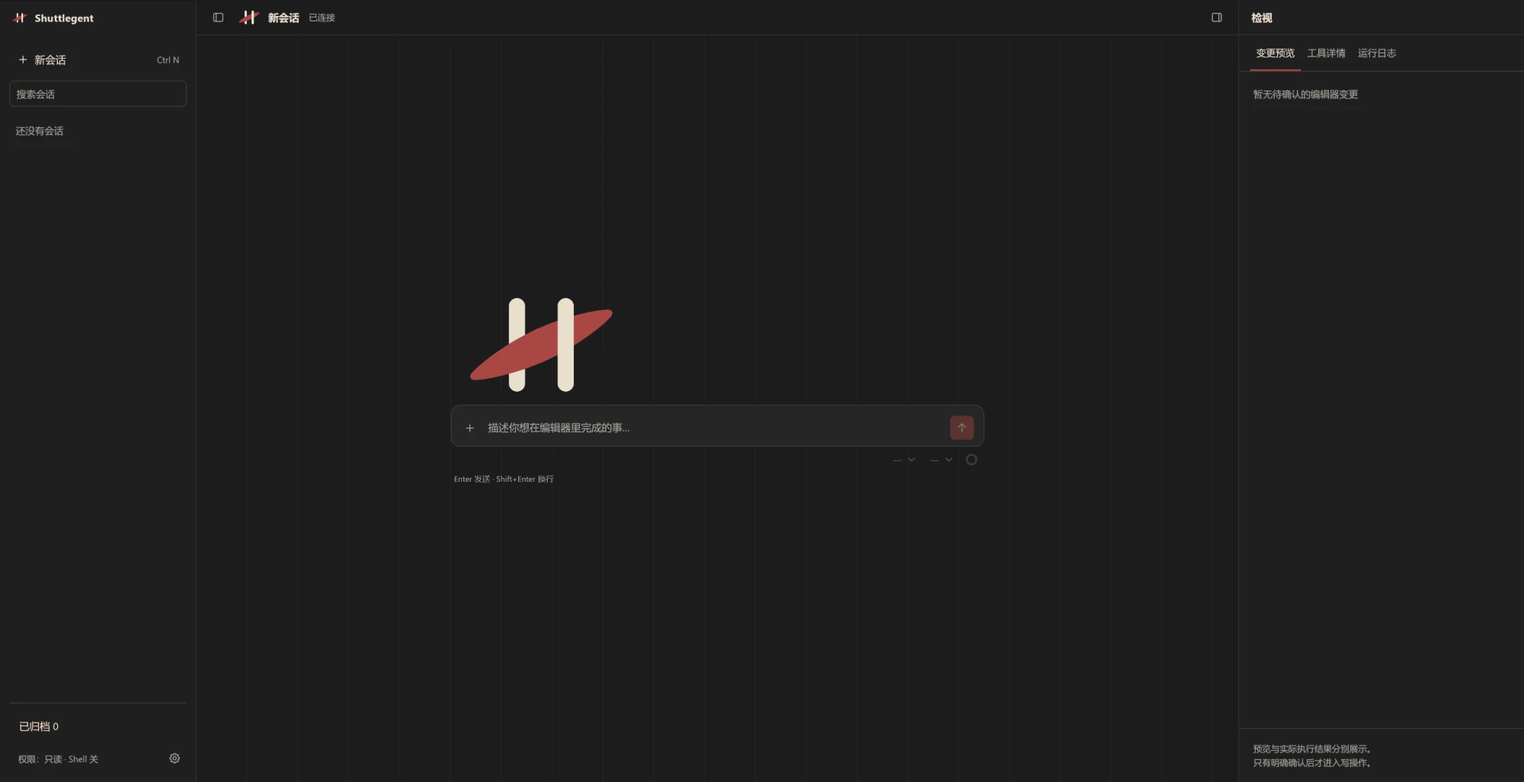
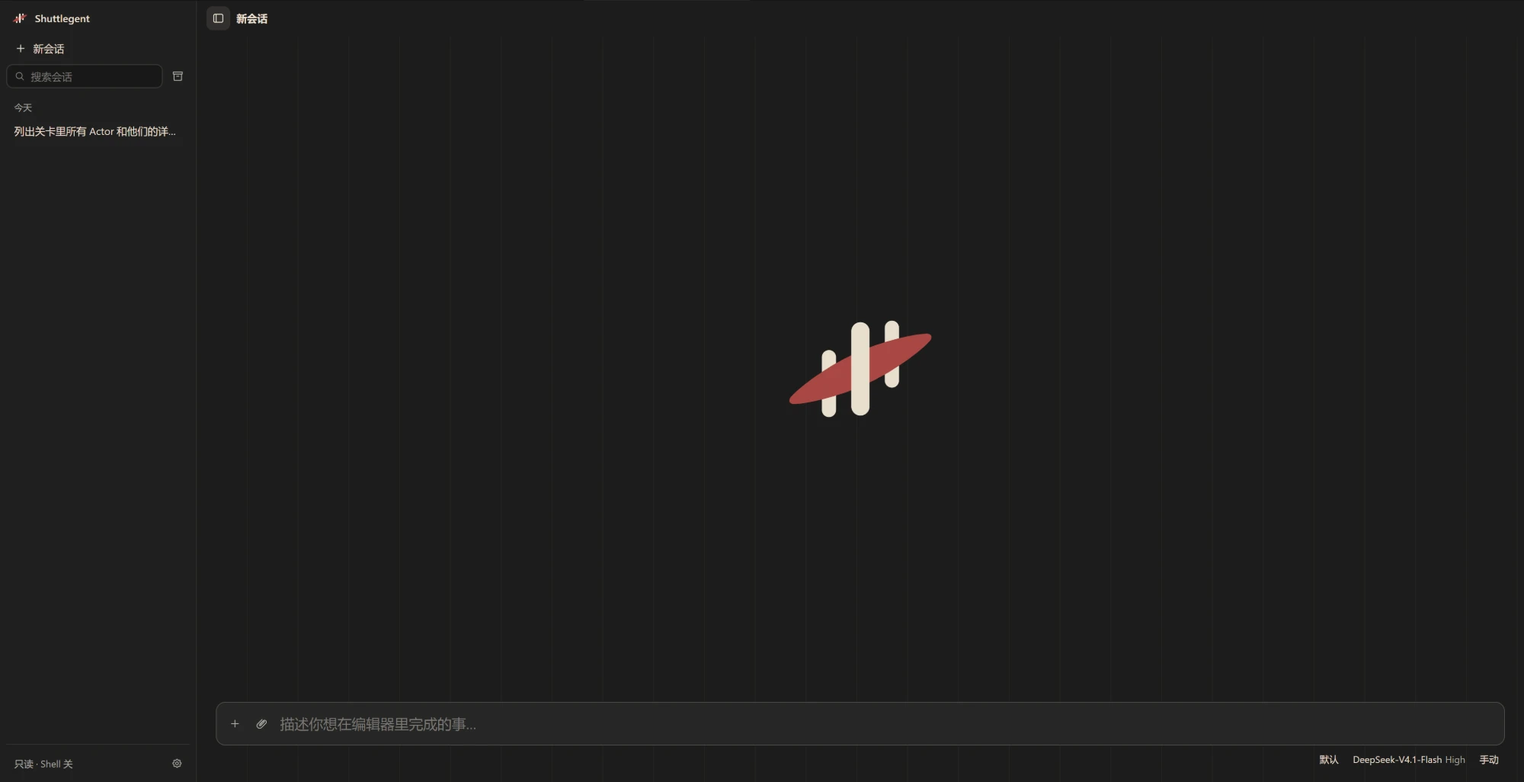
docs: README 与文档按当前实现更新
- README：密钥改在 Models 中填写并可检测连接；开始对话补 Agent / 模型 / 模式选择、斜杠命令与图片输入；
  功能表更新（内置工具 28 个、检视窗格五张卡、计划与写入模式、回到这里与分支、选择卡、记忆、模型与 Agent）；
  文档表加入 Design.pdf；面板截图换成当前界面
- Architecture §4：补处理过程摘要行与运行行、排队消息、单行输入行与发送停止按钮、Agent 按钮、
  选择卡排到一轮末尾与 Ctrl+Enter、标志与动效；改正计划审批按钮文字、草稿图片尺寸、内置工具数与推理强度用词
- Development：标志几何为三条经线（front 决定前后），导出物含插件图标及所需环境

diff --git a/Docs/Architecture.md b/Docs/Architecture.md
@@ -133,7 +133,7 @@ sequenceDiagram
 
 - `FShuttlegentAcpConnection`：基于 stdio 的 JSON-RPC 2.0，一行一条消息，回调都在游戏线程。
 - `FShuttlegentAgentService`：可同时打开并驱动多个会话；一个会话的回合结束后，迟到的更新会被丢弃。
-- 使用的 ACP 方法：`initialize`、`session/new`、`session/resume`、`session/close`、`session/prompt`、`session/cancel`、`session/set_config_option`（模型、思考强度）、`session/request_permission`。
+- 使用的 ACP 方法：`initialize`、`session/new`、`session/resume`、`session/close`、`session/prompt`、`session/cancel`、`session/set_config_option`（模型、推理强度）、`session/request_permission`。
 - 处理的 `session/update` 类型：`agent_message_chunk`、`agent_thought_chunk`、`tool_call`、`tool_call_update`、`usage_update`。
 - `FShuttlegentSessionStore`：运行时不支持 `session/load` 回放，所以每次提问、每条更新和每个回合结束都由插件追加到项目 `Saved/Shuttlegent/Sessions` 下的 JSONL 记录。重新打开会话时，由面板回放这些记录。
 
@@ -214,7 +214,7 @@ flowchart TB
     class WB,Panel,Model,Conv,Proto,Svc editor
 ```
 
-- 面板是一个 Dock 页签（`ShuttlegentChat`），页面在 CEF 中加载。页签关闭后再打开，状态仍然保留。
+- 面板是一个 Dock 页签（`ShuttlegentChat`），页面在 CEF 中加载。页签关闭后再打开，状态仍然保留。界面与交互的规范（令牌、组件、文案、新界面检查清单）见 [Design.pdf](Design.pdf)，本节只记实现。
 - `FShuttlegentWebProtocol`：页面就绪时推送完整快照，此后只推增量；同一帧内的变化合并成一条消息。
 - 布局：顶栏横跨对话区与检视窗格、通到面板右边缘，检视窗格开关固定在顶栏右端（打开时显示按下底色）；检视窗格位于顶栏下方，打开时把对话内容往左挤，窄宽度下改为浮层，同样位于顶栏下方。对话区的滚动容器横跨整个顶栏下方区域，滚动条贴在面板最右边缘、上下通到底，输入框浮在对话底部；停靠的检视窗格叠在对话区右侧、滚动条左边，对话内容按 `--inspector-space` 让出它的宽度。检视窗格自己的滚动条只在鼠标移入时显示。空白会话时输入框同样在底部，大标志居中于其上方的区域；输入框下方不再显示按键提示，暂不能发送的原因（排队、运行时未启动等）改写在输入框的占位文字里。
 - 用户消息：鼠标悬停或键盘焦点在消息上时，下方右对齐显示一行（照 Claude）：相对时间（悬停显示完整时间）、复制、回到这里、分支。
@@ -222,11 +222,14 @@ flowchart TB
   - **分支**（`FShuttlegentChatModel::BranchFrom`）：运行时把会话截在该消息这一轮结束之后另存为新会话；面板会话记录复制到同一处，标题加“（分支）”并打开新会话。原会话与编辑器状态不变。
   - **回到这里**（`FShuttlegentChatModel::RewindTo`，页面先弹确认框，列出将撤销与不可撤销的修改数、将移除的消息数）：先确认这条消息之后可撤销写入的事务恰好依次占据撤销栈顶（`FShuttlegentWriteGate::AreOnUndoTop`），中间夹着用户自己的编辑时整体拒绝；再由运行时把会话截在该消息之前另存为新会话，成功后按倒序撤销这些写入，原会话归档，打开新会话并把消息原文放回输入框。不可撤销的写入（数据表加行、存盘等）保留在编辑器中。截断第一条消息时不需要运行时，撤销写入后开始新对话。
   - 两者都要求当前对话空闲、会话已在运行时打开、session control 插件可用（`CanEditHistory`）；不满足时按钮变灰，悬停提示原因。写入结果只保存在内存里，重新打开的旧会话回到某条消息时没有可撤销的写入。
+- 处理过程（照 Claude，`app.js` 的 `processHtml`）：一轮回答中，最后一次工具调用之前的思考、中间说明文字与工具调用收为一行摘要（按调用名计数，失败数红字），点三角原地展开完整过程；最终回答照常显示。回合进行中，这一轮的过程就是对话最末的运行行：织布动画、本轮已用时间与当前动作（“正在执行 <工具>”“思考中”“回复中”“处理中”），同样可展开。所有展开按钮都是灰色实心圆角三角，展开时原地旋转 90°。
+- 排队消息：回合进行中按 Enter，消息进入队列（占位文字提示“回车加入队列，本轮结束后发送”），以浅色气泡排在运行行上方，下方一行标“本轮结束后发送”（队列暂停时为“已暂停”），带“取回”（取回为草稿，当前草稿放到这一条的位置）与移除按钮。
 - 任务清单：Agent 用 `todo_write` 列出的待办（`todo/write`，经 session tap 插件）显示在输入框上方，标题行为“任务 已完成数/总数”与进行中的一项，可折叠；进行中的一项加粗并转圈，已完成的打勾划线。每次 `todo/write` 给出完整列表，替换上一份；用户发出新提示时清空（与运行时在新回合清空 `todos` 投影一致）。回合结束且全部完成时自动折叠。只在内存中，不写入会话记录。
-- 输入框下方：右侧依次为模型按钮（模型名，后接灰色的推理强度）与模式按钮，样式与交互参照 Claude。点开都在按钮上方弹出圆角菜单（`#model-menu`、`#mode-menu`），当前项右侧为朱红色对勾；模型菜单底部的“推理强度”一行悬停或点击时在旁边弹出子菜单（`#effort-menu`，顶部一行说明）。方向键在菜单项间移动，右方向键进入子菜单、左方向键退出，Esc 或点菜单外关闭；回合进行中模型按钮不可用。左侧只在需要时显示一行提示。上下文用量只在检视窗格的上下文卡片中显示。
+- 输入行（照 Claude 的单行设计）：一个圆角框内依次为添加引用 +、添加图片、编辑区、发送；引用标签与草稿图片在这一行上方。发送按钮是回车图标，无底色、悬停出现圆角灰底，输入框有内容才显示；回合进行中同一按钮把消息加入队列，旁边的停止按钮为同样式的实心圆角方块。单行时按钮与文字竖直居中，两行起按钮留在底部。决策卡出现时替换输入框，框外的信息行随之隐藏。
+- 输入框下方：右侧依次为 Agent 按钮、模型按钮（模型名，后接灰色的推理强度）与模式按钮，均为无箭头的纯文字按钮，样式与交互参照 Claude。Agent 在发出第一条消息后锁定（见 §2.3）。点开都在按钮上方弹出圆角菜单（`#agent-menu`、`#model-menu`、`#mode-menu`），当前项右侧为朱红色对勾；模型菜单底部的“推理强度”一行悬停或点击时在旁边弹出子菜单（`#effort-menu`，顶部一行说明）。方向键在菜单项间移动，右方向键进入子菜单、左方向键退出，Esc 或点菜单外关闭；回合进行中模型按钮不可用。左侧只在需要时显示一行提示。上下文用量只在检视窗格的上下文卡片中显示。
 - 模式：模式菜单有“自动”“手动”“自动接受编辑”“计划”四项，各带一行说明；只从模式菜单切换；手动之外的模式给输入框描边（自动接受编辑为绿色、自动为橙色、计划为蓝色）。前三项只决定编辑器写入是否弹确认卡（`EShuttlegentWriteMode`，按对话记在 `FShuttlegentConversation::WriteMode`，新对话取 **编辑器偏好设置 > Shuttlegent > Permissions > Default Write Mode**；规则见 [Tools.md §1](Tools.md#1-写操作确认与撤销)），在编辑器侧生效，从下一次写入起算；在计划模式中选它们同时退出计划模式。草稿缩略图的移除按钮是压在右上角的圆形按钮，鼠标移到缩略图上才显示。
 - 输入框：富文本编辑区（`Resources/Web/composer-editor.js`，基于打包进插件的 Tiptap），输入时即显示 Markdown 格式，与 Claude 的输入框一致：行首 `- `、`1. `、`- [ ] `、`> `、`# `～`### `、` ``` ` 转为圆点列表、编号列表、任务列表、引用、标题、代码块，`**粗体**`、`*斜体*`、`` `代码` `` 输入结束符号时转为格式；Ctrl+B / Ctrl+I / Ctrl+E 切换粗体、斜体、行内代码，Ctrl+Z / Ctrl+Y 撤销重做。Enter 发送，Shift+Enter 换行或续上下一项（空项上再按退出列表）；Tab 缩进、Shift+Tab 反缩进列表项，编号按层级重排（缩进后从 1 开始，反缩进后接着上一级），不在列表里时 Tab 插入两个空格，Tab 不会把焦点切走，也不用于切换模式或选中补全项；@ 与 / 补全菜单用方向键与 Enter 选择，模板正文按 Markdown 插入；粘贴的文字按 Markdown 解析，粘贴图片仍成为缩略图。草稿、发送内容与历史记录都是 Markdown，由 `composer-editor.js` 自行导出，文字原样输出、不加转义（如 `BP_Door_01`）。发出的用户消息按 Markdown 显示，复制得到原文。
-- 计划模式：模式菜单中的“计划”（输入框描边为蓝色）。打开后 Agent 只查看、出方案；编辑器写入门在计划模式的回合中拒绝一切写入（Harness 的计划模式只改提示词、不限制工具，只读由此保证；见 [Tools.md §1](Tools.md#1-写操作确认与撤销)）。会话创建前打开时先记下选择，会话就绪后先应用再发送第一条提示；恢复会话时查询运行时记录的状态。Agent 调用 `exit_plan_mode` 交出计划后，输入框位置换成审批卡片：显示计划（可点对象链接）、可填修改意见，“继续规划”把意见交回 Agent；“批准，自动接受编辑”与“批准，逐项确认”都让 Agent 退出计划模式按计划执行，前者把对话的写入模式改为自动接受编辑，后者改为手动确认，在 Agent 开始写入之前生效。审批不限时，Esc 不会退回计划。计划连同审批结果（待审批、已批准、已退回附意见、已取消）留在对话中（`EShuttlegentChatEntryKind::Plan`），并写入会话记录（`plan`）。回合取消或运行时退出时，等待中的审批标为已取消。计划模式提示词由插件补丁覆盖为编辑器场景的说法，提问改用 `ask_user`。
+- 计划模式：模式菜单中的“计划”（输入框描边为蓝色）。打开后 Agent 只查看、出方案；编辑器写入门在计划模式的回合中拒绝一切写入（Harness 的计划模式只改提示词、不限制工具，只读由此保证；见 [Tools.md §1](Tools.md#1-写操作确认与撤销)）。会话创建前打开时先记下选择，会话就绪后先应用再发送第一条提示；恢复会话时查询运行时记录的状态。Agent 调用 `exit_plan_mode` 交出计划后，输入框位置换成审批卡片：显示计划（可点对象链接）、可填修改意见，“继续规划”把意见交回 Agent；“批准并执行”与“批准，逐项确认”都让 Agent 退出计划模式按计划执行，前者把对话的写入模式改为自动接受编辑，后者改为手动确认，在 Agent 开始写入之前生效。审批不限时，Esc 不会退回计划。计划连同审批结果（待审批、已批准、已退回附意见、已取消）留在对话中（`EShuttlegentChatEntryKind::Plan`），并写入会话记录（`plan`）。回合取消或运行时退出时，等待中的审批标为已取消。计划模式提示词由插件补丁覆盖为编辑器场景的说法，提问改用 `ask_user`。
 - 上下文压缩：压缩开始、结束（`compaction/*`）在对话中显示为一条虚线分隔行：“正在自动/手动压缩上下文…”“上下文已压缩 · 约 N tokens 转为摘要”或失败原因（`EShuttlegentChatEntryKind::Compaction`）。结束时用插件报来的压缩后用量更新上下文卡片，并把结果追加到会话记录（`compaction`），重新打开会话时回放。上下文卡片底部有“压缩上下文”按钮（`FShuttlegentChatModel::CompactContext`，经 `RunCommand` 执行 `/compact`），条件与“回到这里”相同（会话已打开、空闲、session control 插件可用），压缩期间显示“压缩中…”；没有可压缩的内容时以通知显示运行时的说明。
 - 斜杠菜单与内置命令：行首输入 `/` 弹出菜单，“命令”分区在“模板”分区之前，均按输入过滤；选中只把文字填进输入框，已完整输入的命令选中即执行。整段输入以下列命令开头时，由页面在编辑器侧执行，不发给模型（`Resources/Web/app.js` 的 `runSlashCommand`）；其他以 `/` 开头的文字照常作为消息发送，同名模板仍可从菜单插入：
 
@@ -238,7 +241,7 @@ flowchart TB
   | `/clear` | 开始新对话，当前对话留在侧栏 | 新对话 | 始终可用 |
 
   命令不可用或参数不对时不执行，输入保留，原因显示在输入框下方一行（5 秒后或继续输入时消失）；菜单中不可用的命令置灰并以原因代替说明。`/plan <消息>`：计划模式走控制端口、提示走 ACP，两者没有先后保证，会话已打开时提示先挂起（对话随之忙碌，新草稿排队），运行时确认计划模式已开后再发出，切换失败则放回队列首位并暂停；会话未创建时沿用“就绪后先应用计划模式再发送”；回合进行中时计划模式在下一步生效，消息照常排队。
-- 图片输入：输入框可粘贴截图（页面处理剪贴板）、点回形针按钮选图（编辑器原生文件对话框，`SShuttlegentWebPanel::HandlePickImages`）、从资源管理器拖入图片文件（Slate 的 `FExternalDragOperation`），一条消息最多 6 张；页面把最长边缩到 2048 像素、PNG 超过 4 MB 时转 JPEG。运行时在 `initialize` 中按启动时的默认模型声明是否接受图片（`promptCapabilities.image`）；会话的模型配置变化时，编辑器经 session control 的 `imageInput` 确认该会话当前模型是否接受图片（按模型路由缓存，运行时重启后清空），再结合“当前对话是否空闲”决定能否附图，不能时按钮置灰并说明原因（会话模型不支持时提示切换模型或新建对话）。草稿图片在引用标签下方、输入行上方按原比例显示（高 96 像素，最宽 240 像素），× 在鼠标悬停时显示；带图片的消息只在空闲时发送，不进入队列。图片以 ACP `image` 块随提问发出，并按内容哈希保存到 `Saved/Shuttlegent/Sessions/Images/`，会话记录记下路径，重新打开会话时用户消息下显示缩略图，点开看大图
+- 图片输入：输入框可粘贴截图（页面处理剪贴板）、点回形针按钮选图（编辑器原生文件对话框，`SShuttlegentWebPanel::HandlePickImages`）、从资源管理器拖入图片文件（Slate 的 `FExternalDragOperation`），一条消息最多 6 张；页面把最长边缩到 2048 像素、PNG 超过 4 MB 时转 JPEG。运行时在 `initialize` 中按启动时的默认模型声明是否接受图片（`promptCapabilities.image`）；会话的模型配置变化时，编辑器经 session control 的 `imageInput` 确认该会话当前模型是否接受图片（按模型路由缓存，运行时重启后清空），再结合“当前对话是否空闲”决定能否附图，不能时按钮置灰并说明原因（会话模型不支持时提示切换模型或新建对话）。草稿图片在引用标签下方、输入行上方按原比例显示（高 72 像素，最宽 180 像素），× 在鼠标悬停时显示；带图片的消息只在空闲时发送，不进入队列。图片以 ACP `image` 块随提问发出，并按内容哈希保存到 `Saved/Shuttlegent/Sessions/Images/`，会话记录记下路径，重新打开会话时用户消息下显示缩略图，点开看大图
 - 提醒：不弹通知、不出声。有对话等待用户输入（写入确认、Agent 提问、计划审批、运行时权限请求）时为黄点，一轮结束（用户自己停止的除外）而用户没在看这个对话时为蓝点，黄点优先。Shuttlegent 页签不在前台时，页签显示同色的引擎原生色条（`SDockTab` 的 `TabColorScale` 属性，按 `FShuttlegentChatModel::GetOverallAttention` 取色，颜色见 `ShuttlegentEditorColor`），在前台时透明不显示；引擎没有给单个页签叠加角标的接口（图标是 `SDockTab` 内部私有的 `SImage`，`FSlateIcon` 的状态叠加图标只有工具栏按钮会画），故用色条代替圆点；会话列表中除当前会话外的行右侧显示同色圆点（会话字段 `attention`）。编辑器模块每 0.25 秒把页签是否在前台告诉对话模型（`SetPanelVisible`），页签在前台时切到或停留在某个对话即清除它的蓝点；黄点在输入处理完或超时后消失。
 - 回答中的对象链接：运行时提示词（`Runtime/profile/shuttlegent.patch.yml`）要求 Agent 把已知路径的资产写成 `[名称](ue-asset:<对象路径>)`、Actor 写成 `[Actor 标签](ue-actor:<对象路径>)`；行内代码若是完整的 `/Game/...` 路径，也渲染成资产链接。包路径（无 `.`）补上对象名，同一资产的链接路径一致。
   - 单击：资产在内容浏览器中定位，Actor 在关卡中单独选中并把关卡编辑器页签切到前台、视口获得键盘焦点；双击：打开资产编辑器，或让视口镜头移到 Actor（`FShuttlegentReferenceNavigator`，经 `UShuttlegentWebBridge::RevealObject`）。只改选中与焦点，不产生事务，不影响“回到这里”。
@@ -257,7 +260,9 @@ flowchart TB
   - 运行时对编辑器工具调用固定 60 秒超时（Harness `mcp-client` 的 `DEFAULT_TOOL_CALL_TIMEOUT_MS`，ACP 声明服务器时不能改），写评语不够用，所以选择卡不等待作答：工具把卡片交给 `FShuttlegentQuestionGate::PresentChoice` 后立即返回，提示 Agent 结束本轮；没有面板时返回失败说明，Agent 改在回复里列出选项。
   - 对话模型把卡片放进正在运行回合的对话（当前对话优先），条目类型 `EShuttlegentChatEntryKind::Choice`，同一对话只保留一张等待中的卡片。卡片内容与提交结果按 `FShuttlegentChoiceJson` 的形状写进会话记录（`choice`，出现与结束各记一条，回放以最后一条为准），重开会话后照样显示，仍在等待的可以继续作答。
   - 页面在对话流里渲染卡片：选项网格（图片复用回答图片的取图与缩略图缓存，双击放大）、单选或多选、逐项“写评语”、整体意见、“提交”。草稿按条目保存在页面，重绘不丢。提交经 `UShuttlegentWebBridge::SubmitChoice` 交给 `FShuttlegentChatModel::SubmitChoice`：卡片标为已提交，选择整理成一条用户消息（选中项标题与 id、各项评语、整体意见）走 `SubmitDraft` 发出，本轮仍在运行时进入队列；被拒绝时经 `onChoiceRejected` 把原因显示在卡片上。
-  - 等待中的卡片让对话显示黄色“等待输入”提醒。用户没在卡片上作答而直接发了别的消息，卡片标为“未作答”；交出卡片的回合被停止，卡片标为“已取消”。
+  - 等待中的卡片让对话显示黄色“等待输入”提醒，输入框占位文字改为“在上方卡片中作答，或直接输入（卡片将标为未作答）”。用户没在卡片上作答而直接发了别的消息，卡片标为“未作答”；交出卡片的回合被停止，卡片标为“已取消”。
+  - 页面排版时把选择卡挪到所在一轮的末尾（下一条用户消息之前），这一轮的处理过程不被卡片切开。评语与整体意见输入框中按 Ctrl+Enter 提交。
+- 标志与动效：标志由 `mark.js` 按 `brand-geometry.js`（`Build/Brand/` 导出）以内联 SVG 绘制，三条经线按几何源的 `front` 分在梭子前后。空白会话的大标志（宽 220，窄布局 150）入场时经线依次落位、梭子沿轴线滑入；空闲 6～11 秒随机飞过一次，点击也飞过，背景经线（`warp.js`）随梭子拨开；悬停时梭子轻推。思考中的织动标志（运行行与过程行，`app.css` 的 `sg-weave-*`，2 秒一轮：射入、下压到底弹回、停顿、回拉后飞出）全部共用一个相位；`mark.js` 小标志的“工作中”循环复用同一组关键帧（`.is-weaving`）。**编辑器偏好设置 > Shuttlegent > Appearance > Animate Mark** 关闭、系统要求减少动态效果或页签不可见时，标志全部静止。
 - 右侧检视窗格由五张可单独展开的卡片组成，折叠时标题行右侧显示摘要；上下文与记忆两张默认展开：
 
   | 卡片 | 摘要 | 展开内容 | 数据 |
@@ -295,7 +300,7 @@ flowchart TB
 | McpServer | `FShuttlegentWriteGate` | 写操作确认门：排队、超时、结果上报、撤销 |
 | McpServer | `FShuttlegentExternalMcp` | 把项目的外部 MCP 服务声明给运行时；同时给出每个服务的状态（`FShuttlegentExternalMcpState`，跳过原因为 `EShuttlegentExternalMcpIssue`），供面板 MCP 卡片显示 |
 | McpServer | `IShuttlegentTool` / `IShuttlegentToolProvider` | 工具接口 / 工具提供者接口（扩展点） |
-| Tools | `FShuttlegentBuiltinToolProvider` | 提供 26 个内置工具 |
+| Tools | `FShuttlegentBuiltinToolProvider` | 提供 28 个内置工具 |
 | ToolsetBridge | `FShuttlegentToolsets` | 读取 Toolset Registry：可见性、工具列表、读写判断、执行 |
 | Editor | `FShuttlegentChatModel` / `FShuttlegentConversation` | 对话状态 / 单个会话 |
 | Editor | `SShuttlegentWebPanel` / `UShuttlegentWebBridge` / `FShuttlegentWebProtocol` | 面板宿主 / JS 绑定 / 推送协议 |

diff --git a/README.md b/README.md
@@ -52,14 +52,15 @@
 
 ### 3. 配置密钥
 
-在 **编辑器偏好设置 > Shuttlegent > General > Providers** 中填写 DeepSeek Api Key。其他供应商的配置见 [Docs/Configuration.md](Docs/Configuration.md)。
+在 **编辑器偏好设置 > Shuttlegent > General > Models** 中给默认模型填写 Api Key（内置的两个 DeepSeek 模型共用一个密钥），填好后可点该模型的“检测连接”确认。添加其他模型、选择默认模型与 Agent 见 [Docs/Configuration.md](Docs/Configuration.md)。
 
 ### 4. 开始对话
 
 通过 **窗口 > Shuttlegent** 打开面板，输入任务后按 Enter 发送。
 
-- 输入 `@`、按 Ctrl+Space，或从内容浏览器、大纲视图拖入，可引用 Actor 与资产。
-- 输入 `/` 可选择项目提供的模板。
+- 输入框下方可选择 Agent、模型与推理强度、模式；Agent 在发出第一条消息后锁定。
+- 输入 `@`、按 Ctrl+Space，或从内容浏览器、大纲视图拖入，可引用 Actor 与资产；可粘贴截图或拖入图片。
+- 输入 `/` 可选择模板，或执行 `/compact`（压缩上下文）、`/plan`（计划模式）、`/undo`（回退本轮）、`/clear`（新对话）。
 - 回合进行中发送的消息进入队列；当前回合可随时停止。
 
 ### 5. 启用引擎 Toolset（可选）
@@ -78,22 +79,23 @@
 
 | 类别 | 内容 |
 |---|---|
-| 对话面板 | 多会话并行、会话搜索与归档、消息队列、思考过程折叠、用量显示、模型与思考强度切换；检视窗格分上下文、MCP、工具详情、日志四张卡片 |
-| 内置工具 | 关卡、资产、反射、诊断、交互、编辑、材质、节点图排版、关卡搭建、数据表导出、撤销重做、界面指路，共 26 个，见 [Docs/Tools.md §2](Docs/Tools.md#2-内置工具) |
+| 对话面板 | 多会话并行、会话搜索与归档、消息队列、处理过程收为一行摘要、计划模式与写入模式、回到某条消息之前与分支、选择卡、回答中的对象链接与图片、图片输入、个人记忆；检视窗格分上下文、记忆、MCP、工具详情、日志五张卡片 |
+| 内置工具 | 关卡、资产、反射、诊断、交互、编辑、材质、节点图排版、关卡搭建、数据表导出、撤销重做、界面指路，共 28 个，见 [Docs/Tools.md §2](Docs/Tools.md#2-内置工具) |
 | 引擎 Toolset | 通过 `list_toolsets`、`describe_toolset`、`call_toolset_tool` 使用已启用的 Toolset，见 [Docs/Tools.md §3](Docs/Tools.md#3-引擎-toolset) |
-| 模型 | DeepSeek（默认）、OpenAI 协议、Anthropic 协议、OpenAI 兼容端点 |
+| 模型与 Agent | 模型与 Agent 分开设置、按会话组合：DeepSeek（默认）、OpenAI 协议、Anthropic 协议、OpenAI 兼容端点；设置页可检测连接，见 [Docs/Configuration.md](Docs/Configuration.md) |
 | 项目扩展 | 项目提示词、技能、斜杠模板、界面指路、外部 MCP 服务、自定义工具，见 [Docs/Extending.md](Docs/Extending.md) |
 
 ## 文档
 
 | 文档 | 内容 |
 |---|---|
-| [Configuration.md](Docs/Configuration.md) | 模型与密钥、权限、工具开关、项目设置 |
+| [Configuration.md](Docs/Configuration.md) | 模型、Agent 与默认值，权限、工具开关、项目设置 |
 | [Tools.md](Docs/Tools.md) | 写操作确认与撤销、内置工具、引擎 Toolset |
 | [Extending.md](Docs/Extending.md) | 项目提示词、技能、模板、界面指路、外部 MCP、自定义工具 |
 | [Architecture.md](Docs/Architecture.md) | 模块组成、运行时与 ACP、MCP 端点、对话面板 |
 | [Development.md](Docs/Development.md) | 仓库结构、构建运行时、编译、回归测试、排查 |
 | [FAQ.md](Docs/FAQ.md) | 常见问题 |
+| [Design.pdf](Docs/Design.pdf) | UI 交互设计指南：品牌、视觉基础、组件、交互模式与新界面检查清单 |
 
 ## 架构概览
 

diff --git a/Docs/Development.md b/Docs/Development.md
@@ -11,7 +11,7 @@
 | `Resources/svg/`、`Resources/png/` | 图标与标志；标志、组合标志和插件图标由 `Build/Brand/` 生成，不手改 |
 | `Config/` | 插件默认的项目设置 `DefaultShuttlegent.ini` |
 | `Runtime/` | 运行时的 profile 补丁；构建出的 `shuttlegent-runtime.exe` 也放在这里，不进版本库 |
-| `Build/` | 运行时构建脚本、回归脚本（`Probe/`）、标志生成（`Brand/`：唯一几何源 `brand-geometry.json`，运行 `ExportBrand.ps1` 重新生成全部标志 SVG/PNG 与面板动画用的 `Resources/Web/brand-geometry.js`） |
+| `Build/` | 运行时构建脚本、回归脚本（`Probe/`）、标志生成（`Brand/`：唯一几何源 `brand-geometry.json`，三条经线逐条给出位置、粗细、长短与 `front`（在梭子前或后），运行 `ExportBrand.ps1` 重新生成全部标志 SVG/PNG、插件图标与面板动画用的 `Resources/Web/brand-geometry.js`，需要 Node 22+ 与 Chrome 或 Edge） |
 | `Build/Editor/` | 输入框编辑器 Tiptap 的打包工程：版本固定在 `package.json` 与 `package-lock.json`；升级或增减扩展时在该目录运行 `npm ci`、`npm run build`，提交新的 `Resources/Web/vendor/tiptap.js`；`node_modules/` 不进版本库，插件使用者不需要 Node |
 | `Samples/` | 示例项目接入 |
 | `ThirdParty/deepseek-harness/` | DeepSeek Harness 子模块 |
